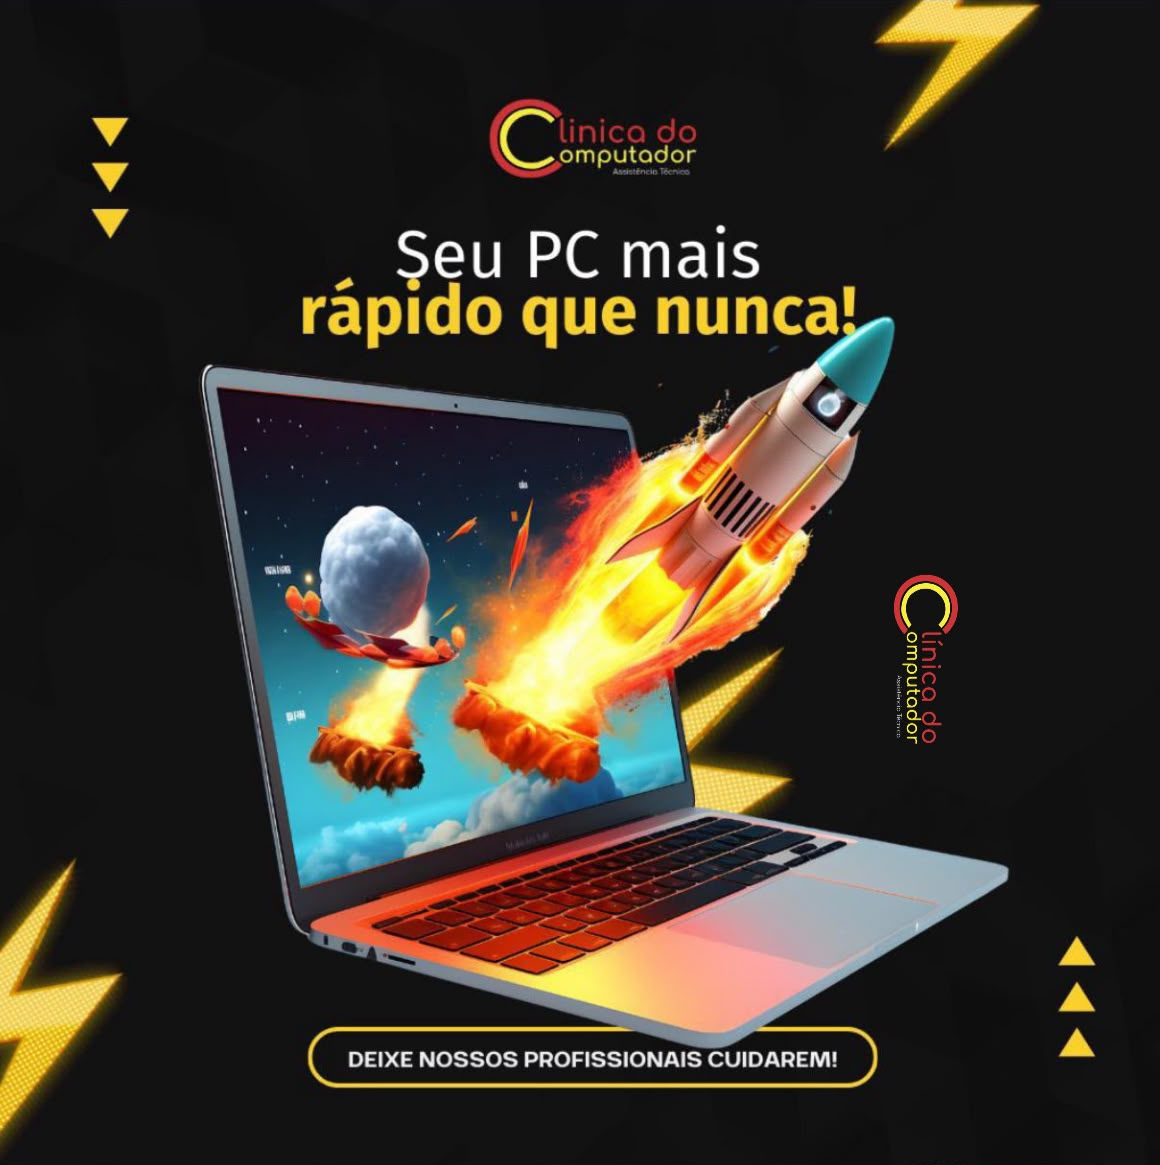
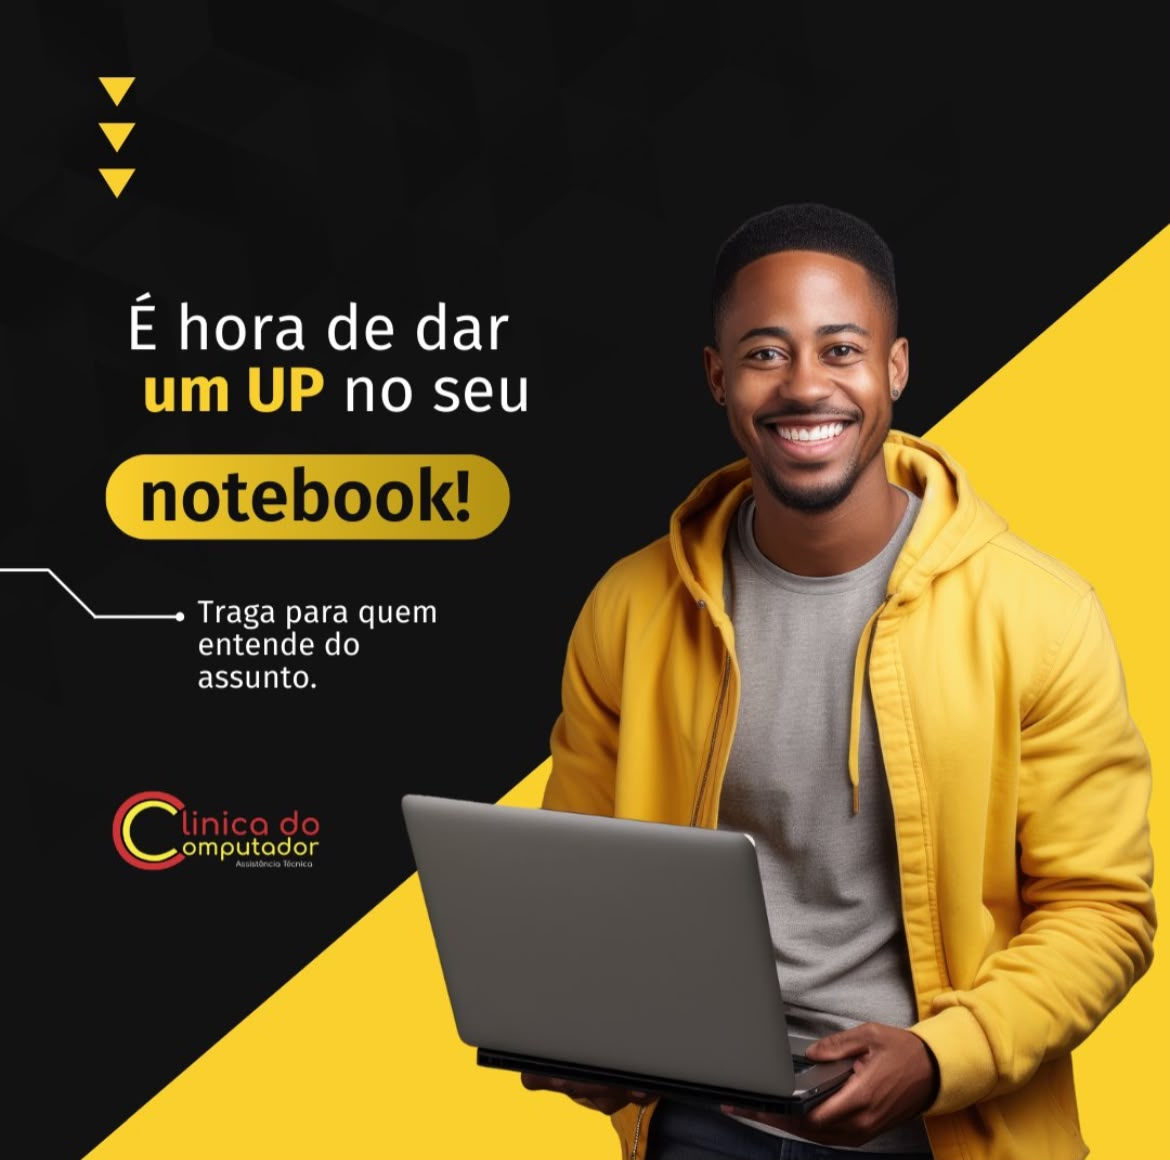
Verificações

diff --git a/style.css b/style.css
@@ -15,7 +15,6 @@
     --color-text-muted: #94a3b8;
     --color-text-faint: #94a3b8;    /* Texto secundário sobre fundo escuro (footer) */
     --color-text-review: #cbd5e1;
-
     --color-text-dark: #080c12;     /* Texto escuro sobre fundo dourado */
 
     --color-star: #ffc107;
@@ -55,6 +54,7 @@ body {
     font-family: 'Inter', -apple-system, BlinkMacSystemFont, "Segoe UI", Roboto, sans-serif;
     overflow-x: hidden;
     -webkit-font-smoothing: antialiased;
+    line-height: 1.5;
 }
 
 .container {
@@ -63,9 +63,17 @@ body {
     margin: 0 auto;
 }
 
+/* ACESSIBILIDADE GERAL (Foco pelo teclado) */
+a:focus-visible, 
+button:focus-visible, 
+.btn:focus-visible, 
+summary:focus-visible, 
+.map-tab:focus-visible {
+    outline: 2px dashed var(--color-accent);
+    outline-offset: 4px;
+}
 
 /* BOTÕES */
-
 .btn {
     display: inline-block;
     padding: 16px 32px;
@@ -77,6 +85,8 @@ body {
     font-size: 16px;
     border-radius: 8px;
     transition: all 0.3s cubic-bezier(0.4, 0, 0.2, 1);
+    cursor: pointer;
+    border: none;
 }
 
 .btn:hover {
@@ -85,9 +95,7 @@ body {
     transform: translateY(-3px);
 }
 
-
 /* HEADER */
-
 .header {
     padding: 24px 0;
     background-color: var(--color-bg-dark);
@@ -151,9 +159,7 @@ body {
     width: 100%;
 }
 
-
 /* HERO */
-
 .hero {
     min-height: calc(100vh - 120px);
     display: flex;
@@ -254,9 +260,7 @@ body {
     box-shadow: 0 22px 45px var(--color-shadow-hover);
 }
 
-
 /* SERVIÇOS */
-
 .services {
     padding: 90px 0;
     background-color: var(--color-bg-primary);
@@ -321,17 +325,15 @@ body {
     transform: scale(1.05);
 }
 
-/* Enquadramento individual por card (telas maiores).
-   Ajuste o valor vertical (segundo número) de cada um:
-   0% = mostra o topo da foto | 100% = mostra a base da foto */
-.services-grid .service-card:nth-child(1) .card-img img { object-position: 50% 50%; } /* PC Gamer */
-.services-grid .service-card:nth-child(2) .card-img img { object-position: 50% 70%; }  /* Carcaça */
-.services-grid .service-card:nth-child(3) .card-img img { object-position: 50% 30%; }  /* Reparo de Placa Mãe */
-.services-grid .service-card:nth-child(4) .card-img img { object-position: 50% 50%; }  /* Substituição de Tela */
-.services-grid .service-card:nth-child(5) .card-img img { object-position: 50% 60%; }  /* Substituição de Teclado */
-.services-grid .service-card:nth-child(6) .card-img img { object-position: 50% 100%; }  /* Upgrades */
-.services-grid .service-card:nth-child(7) .card-img img { object-position: 50% 70%; }  /* Sistemas e Segurança */
-.services-grid .service-card:nth-child(8) .card-img img { object-position: 50% 70%; }  /* Contratos Empresariais */
+/* Enquadramento individual */
+.services-grid .service-card:nth-child(1) .card-img img { object-position: 50% 35%; }
+.services-grid .service-card:nth-child(2) .card-img img { object-position: 50% 70%; }
+.services-grid .service-card:nth-child(3) .card-img img { object-position: 50% 100%; }
+.services-grid .service-card:nth-child(4) .card-img img { object-position: 50% 50%; }
+.services-grid .service-card:nth-child(5) .card-img img { object-position: 50% 80%; }
+.services-grid .service-card:nth-child(6) .card-img img { object-position: 50% 100%; }
+.services-grid .service-card:nth-child(7) .card-img img { object-position: 50% 45%; }
+.services-grid .service-card:nth-child(8) .card-img img { object-position: 50% 70%; }
 
 .card-content {
     padding: 22px;
@@ -427,9 +429,7 @@ body {
     animation: fadeIn 0.3s ease-in-out;
 }
 
-
-/* SEÇÃO SOBRE NÓS E MAPA */
-
+/* SOBRE NÓS E MAPA */
 .about {
     padding: 90px 0;
     background-color: var(--color-bg-dark);
@@ -458,7 +458,6 @@ body {
     margin-bottom: 16px;
 }
 
-/* Mapa */
 .map-widget {
     background-color: var(--color-bg-card);
     border: 1px solid var(--color-border-subtle);
@@ -506,11 +505,10 @@ body {
     width: 100%;
     height: 100%;
     display: block;
+    border: none;
 }
 
-
-/* SEÇÃO DE AVALIAÇÕES */
-
+/* AVALIAÇÕES */
 .reviews {
     padding: 90px 0;
     background-color: var(--color-bg-card);
@@ -650,9 +648,7 @@ body {
     font-style: italic;
 }
 
-
 /* ANIMAÇÕES */
-
 @keyframes fadeIn {
     from {
         opacity: 0;
@@ -664,9 +660,7 @@ body {
     }
 }
 
-
 /* TIMELINE */
-
 .timeline {
     position: relative;
     display: grid;
@@ -735,9 +729,7 @@ body {
     margin-top: 4px;
 }
 
-
-/* SEÇÃO CONTATO */
-
+/* CONTATO */
 .contato {
     width: 90%;
     max-width: 1200px;
@@ -857,9 +849,7 @@ body {
     color: var(--color-accent);
 }
 
-
 /* FOOTER */
-
 .footer {
     background-color: var(--color-bg-dark);
     border-top: 1px solid var(--color-border-panel);
@@ -938,9 +928,7 @@ body {
     margin: 0;
 }
 
-
 /* BOTÃO FLUTUANTE DO WHATSAPP */
-
 .whatsapp-float {
     position: fixed;
     bottom: 20px;
@@ -968,26 +956,19 @@ body {
     height: 28px;
 }
 
-
 /* UX: CONTROLE DE SELEÇÃO E ARRASTE */
-
-/* Bloqueia a seleção apenas da interface (Botões, menus, abas, setas) */
+/* Restringido apenas à interface visual. A seleção de textos (títulos e endereços) foi liberada para melhor acessibilidade. */
 .logo,
 .menu a,
 .btn,
 .tag-highlight,
 .section-tag,
 .service-number,
-.service-card summary,
 .map-tab,
 .google-badge,
 .carousel-arrow,
 .avatar,
-.contato-topo span,
 .contato-whatsapp,
-.contato-item span,
-.footer-logo,
-.footer-coluna h3,
 .whatsapp-float {
     -webkit-user-select: none;
     -moz-user-select: none;
@@ -995,7 +976,7 @@ body {
     user-select: none;
 }
 
-/* Impede o "arraste fantasma" das imagens, mas permite salvar pelo botão direito */
+/* Impede o "arraste fantasma" das imagens */
 img {
     -webkit-user-drag: none;
     -khtml-user-drag: none;
@@ -1004,9 +985,7 @@ img {
     user-drag: none;
 }
 
-
 /* RESPONSIVIDADE */
-
 @media (max-width: 1100px) {
     .services-grid {
         grid-template-columns: repeat(2, 1fr);
@@ -1157,17 +1136,14 @@ img {
         height: 240px;
     }
 
-    /* Enquadramento individual por card no celular.
-       Ajuste o valor vertical (segundo número) de cada um:
-       0% = mostra o topo da foto | 100% = mostra a base da foto */
-    .services-grid .service-card:nth-child(1) .card-img img { object-position: 50% 95%; }  /* PC Gamer */
-    .services-grid .service-card:nth-child(2) .card-img img { object-position: 50% 70%; }  /* Carcaça */
-    .services-grid .service-card:nth-child(3) .card-img img { object-position: 50% 45%; }  /* Reparo de Placa Mãe */
-    .services-grid .service-card:nth-child(4) .card-img img { object-position: 50% 40%; }  /* Substituição de Tela */
-    .services-grid .service-card:nth-child(5) .card-img img { object-position: 50% 55%; }  /* Substituição de Teclado */
-    .services-grid .service-card:nth-child(6) .card-img img { object-position: 50% 55%; }  /* Upgrades */
-    .services-grid .service-card:nth-child(7) .card-img img { object-position: 50% 90%; }  /* Sistemas e Segurança */
-    .services-grid .service-card:nth-child(8) .card-img img { object-position: 50% 60%; }  /* Contratos Empresariais */
+    .services-grid .service-card:nth-child(1) .card-img img { object-position: 50% 30%; }
+    .services-grid .service-card:nth-child(2) .card-img img { object-position: 50% 70%; }
+    .services-grid .service-card:nth-child(3) .card-img img { object-position: 50% 10%; }
+    .services-grid .service-card:nth-child(4) .card-img img { object-position: 50% 40%; }
+    .services-grid .service-card:nth-child(5) .card-img img { object-position: 50% 65%; }
+    .services-grid .service-card:nth-child(6) .card-img img { object-position: 50% 60%; }
+    .services-grid .service-card:nth-child(7) .card-img img { object-position: 50% 30%; }
+    .services-grid .service-card:nth-child(8) .card-img img { object-position: 50% 60%; }
 
     .review-card {
         flex: 0 0 85%;

diff --git a/index.html b/index.html
@@ -6,6 +6,7 @@
     <meta http-equiv="X-UA-Compatible" content="IE=edge">
     <meta name="viewport" content="width=device-width, initial-scale=1.0">
     <meta name="description" content="Assistência técnica especializada em computadores e notebooks em Salvador e Lauro de Freitas. Mais de 15 anos de experiência: reparos, upgrades, formatação e manutenção. Orçamento rápido pelo WhatsApp.">
+    <link rel="icon" type="logoaba/png" href="assets/favicon.png">
 
     <title>Clínica do Computador - Assistência Técnica</title>
 
@@ -68,7 +69,7 @@
 
                     <div class="service-card">
                         <div class="card-img">
-                            <img src="assets/pcgamer.jpeg" alt="PC Gamer">
+                            <img src="assets/pcgamer.png" alt="PC Gamer">
                         </div>
                         <div class="card-content">
                             <h3><span class="service-number">01 —</span> PC Gamer</h3>
@@ -84,7 +85,7 @@
 
                     <div class="service-card">
                         <div class="card-img">
-                            <img src="assets/carcacaquebrada.jpeg" alt="Reparos Avançados em Carcaça">
+                            <img src="assets/carcacaquebrada.png" alt="Reparos Avançados em Carcaça">
                         </div>
                         <div class="card-content">
                             <h3><span class="service-number">02 —</span> Reparo em Carcaça</h3>
